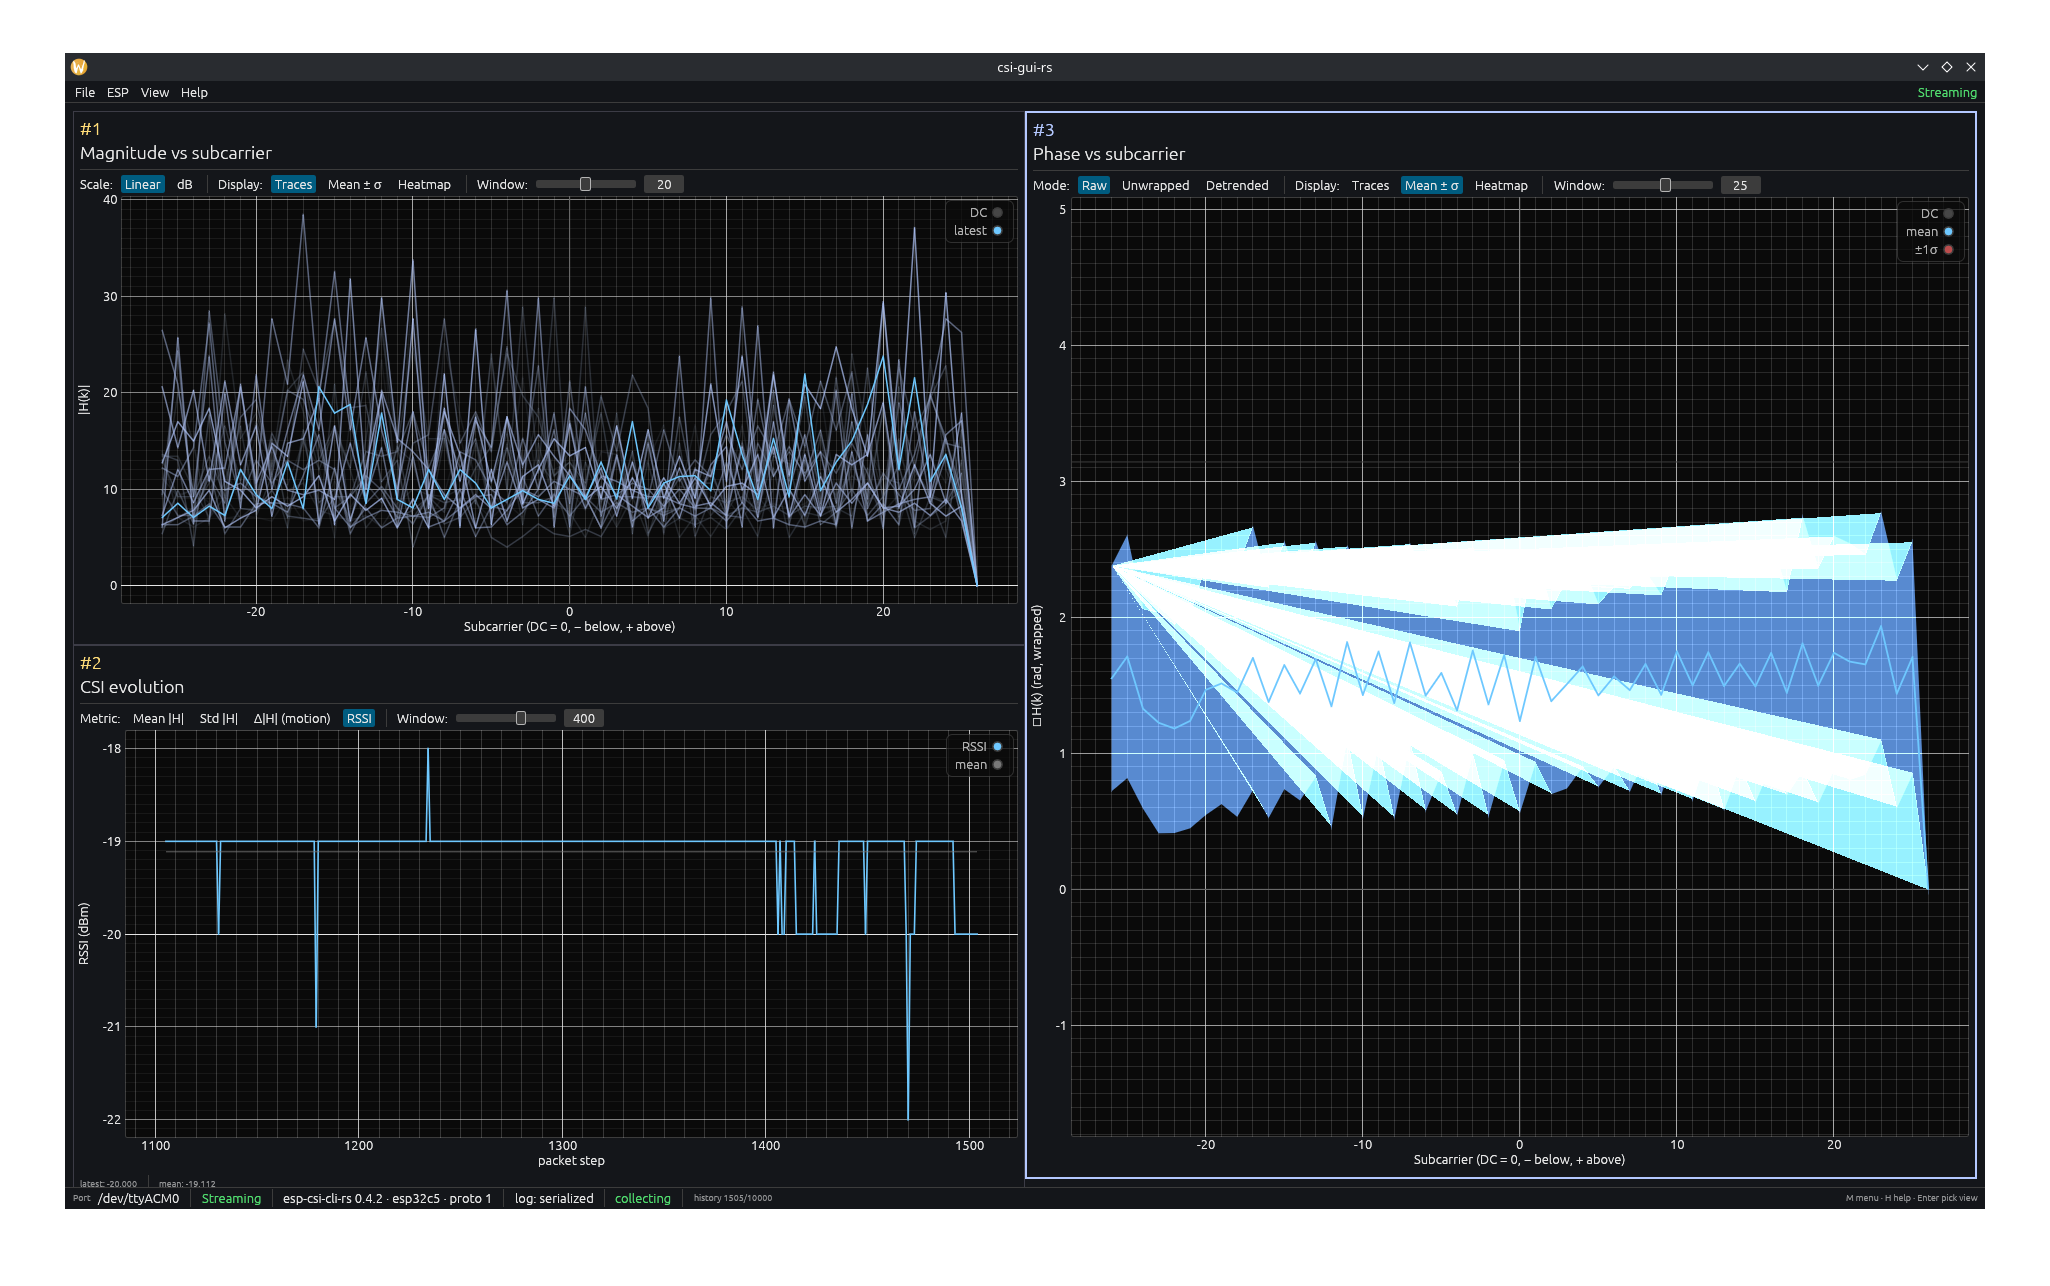
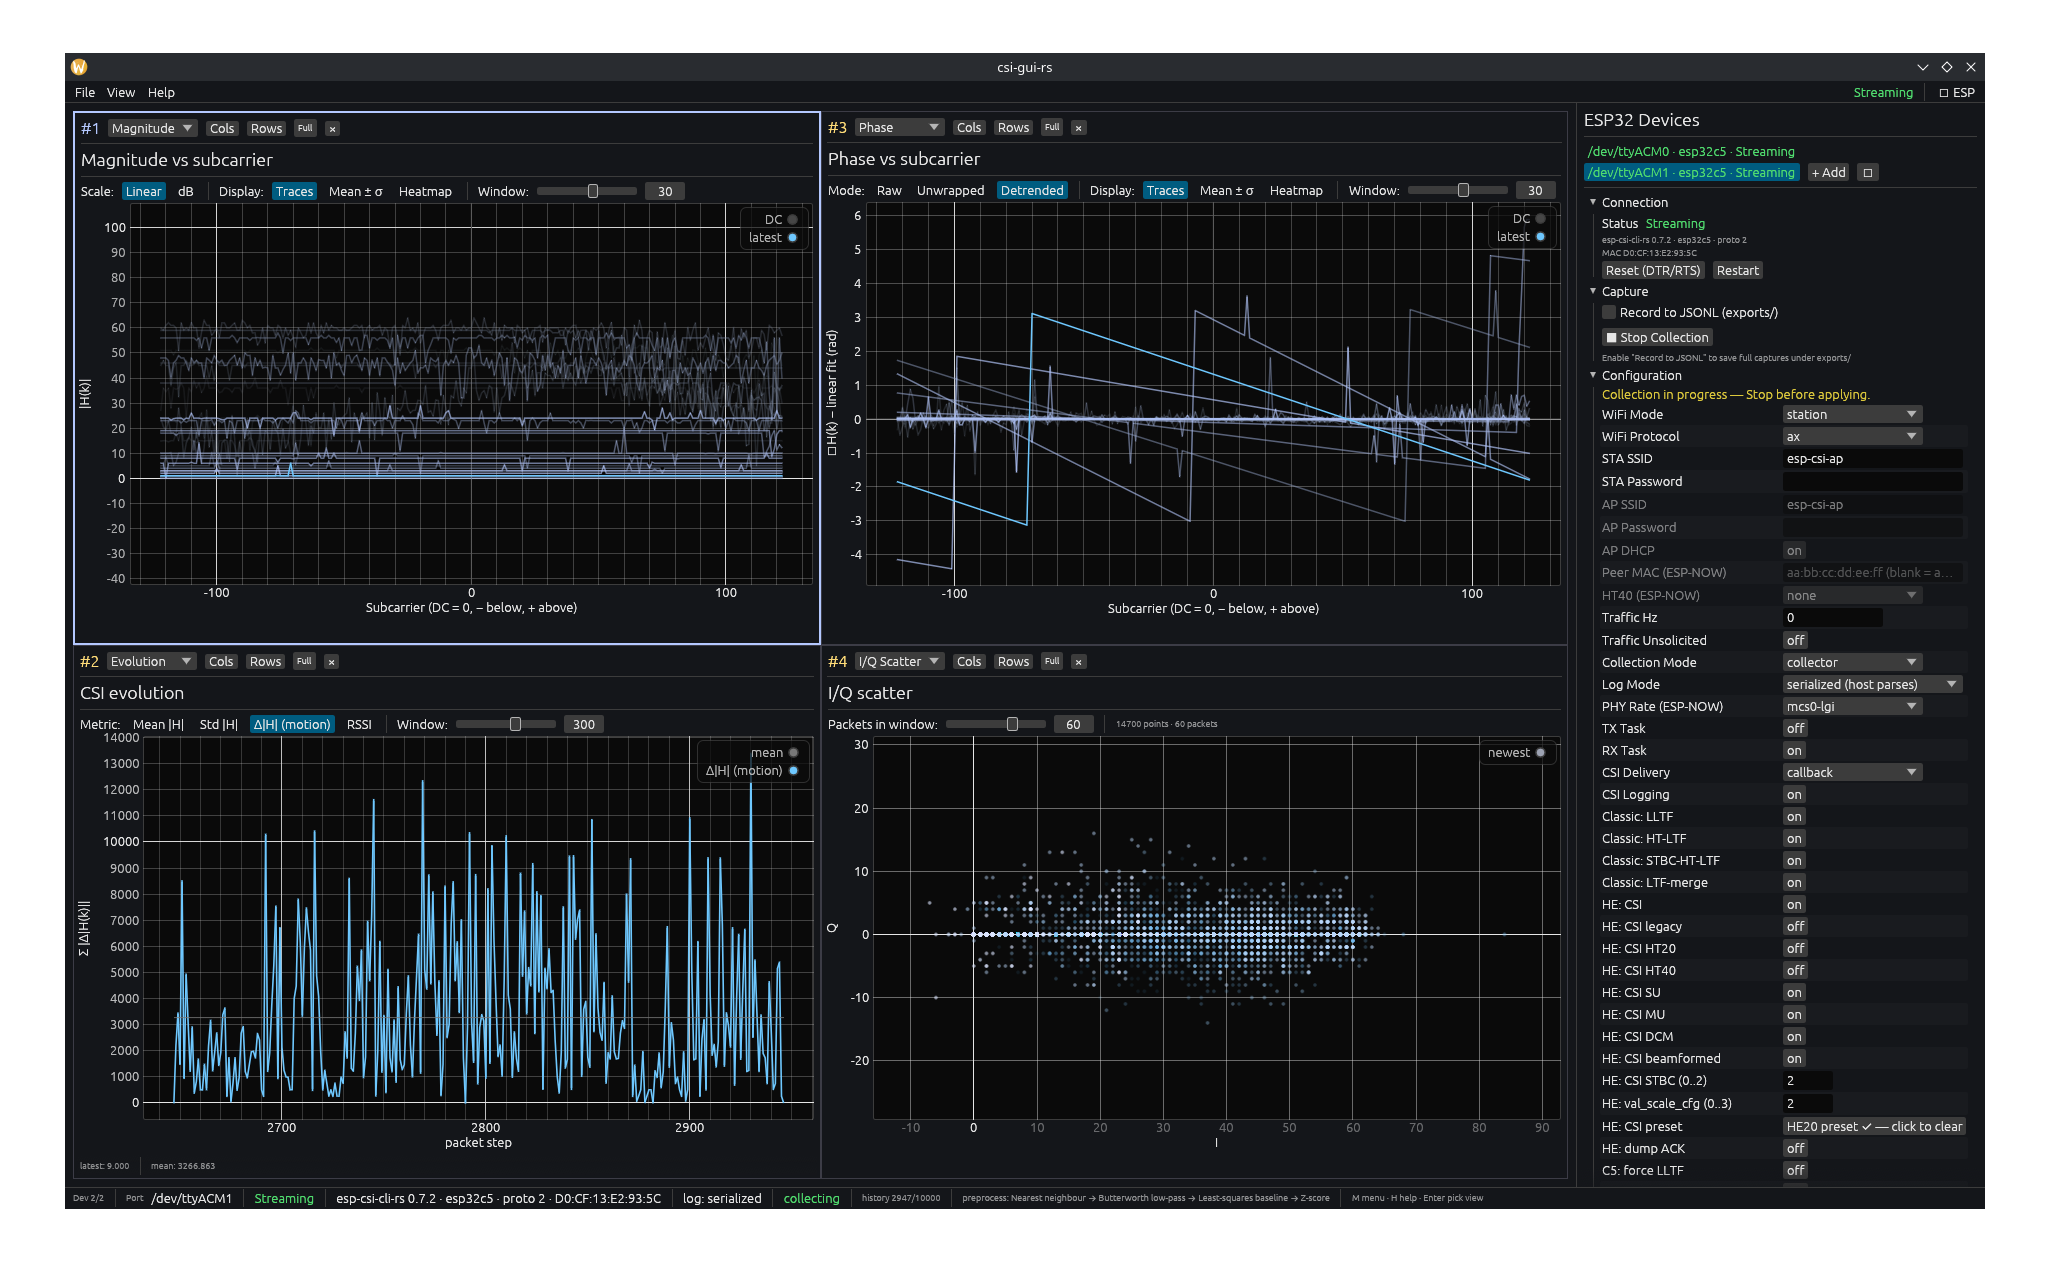
feat: Improved HE20 config with single action button, Updated README.md

diff --git a/src/ui/esp_panel.rs b/src/ui/esp_panel.rs
@@ -59,6 +59,9 @@ pub fn config_grid(
         .striped(true)
         .show(ui, |ui| {
             for (i, label) in ESP_CONFIG_FIELDS.iter().enumerate() {
+                if !field_visible(i, mode) {
+                    continue;
+                }
                 let enabled = field_enabled(i, mode);
                 ui.add_enabled_ui(enabled, |ui| {
                     ui.label(*label);
@@ -81,6 +84,18 @@ pub fn commit_and_validate(
     commit_channel(cfg, channel_buf);
     commit_numeric_fields(cfg, field_bufs);
     cfg.validate()
+}
+
+/// Whether the config row at `idx` is shown at all for the current
+/// [`WifiMode`]. The channel is assigned by the associated AP in Station
+/// mode, so its row is hidden there (and omitted from the pushed config).
+/// Indices must track `ESP_CONFIG_FIELDS`.
+fn field_visible(idx: usize, mode: WifiMode) -> bool {
+    match idx {
+        // Channel
+        2 => mode != WifiMode::Station,
+        _ => true,
+    }
 }
 
 /// Whether the config row at `idx` (index into `ESP_CONFIG_FIELDS`) applies
@@ -356,13 +371,23 @@ fn render_value(
             }
         }
         33 => {
-            enum_combo(
-                ui,
-                "csi_preset",
-                &mut cfg.csi_preset,
-                &CsiPreset::ALL.map(|m| (m, m.cli())),
-                shared,
-            );
+            // One-button HE20 layout: applies the full HE-LTF-only preset in a
+            // single click (mirrors csi-webserver-rs). Clicking while active
+            // reverts to the default preset, leaving the HE toggles editable.
+            let active = cfg.csi_preset == CsiPreset::He20;
+            let label = if active {
+                "HE20 preset ✓ — click to clear"
+            } else {
+                "Apply HE20 preset"
+            };
+            if ui.button(label).clicked() {
+                if active {
+                    cfg.csi_preset = CsiPreset::Default;
+                } else {
+                    cfg.apply_he20_preset();
+                }
+                shared.mark_config_dirty();
+            }
         }
         34 => toggle(ui, &mut cfg.csi_dump_ack, shared),
         35 => toggle(ui, &mut cfg.c5_csi_force_lltf, shared),

diff --git a/src/protocol/command.rs b/src/protocol/command.rs
@@ -41,7 +41,11 @@ pub enum EspCommand {
 pub fn render_apply_config(cfg: &EspConfig, chip: ChipFamily) -> Vec<String> {
     let mut out: Vec<String> = Vec::new();
     out.push(format!("set-wifi --mode={}", cfg.wifi_mode.cli()));
-    out.push(format!("set-wifi --set-channel={}", cfg.channel));
+    // In Station mode the channel follows the associated AP, so the firmware
+    // ignores an explicit channel — omit it (mirrors csi-webserver-rs).
+    if cfg.wifi_mode != WifiMode::Station {
+        out.push(format!("set-wifi --set-channel={}", cfg.channel));
+    }
     if !cfg.sta_ssid.is_empty() {
         out.push(format!(
             "set-wifi --sta-ssid={}",
@@ -219,6 +223,38 @@ mod tests {
         let lines = render_apply_config(&cfg, ChipFamily::Esp32);
         assert!(!lines.iter().any(|l| l.contains("--peer-mac")));
         assert!(!lines.iter().any(|l| l.contains("--ht40")));
+    }
+
+    #[test]
+    fn station_mode_omits_set_channel() {
+        let cfg = EspConfig {
+            wifi_mode: WifiMode::Station,
+            channel: 6,
+            ..Default::default()
+        };
+        let lines = render_apply_config(&cfg, ChipFamily::Esp32);
+        assert!(!lines.iter().any(|l| l.contains("--set-channel")));
+    }
+
+    #[test]
+    fn non_station_mode_emits_set_channel() {
+        let cfg = EspConfig {
+            wifi_mode: WifiMode::Sniffer,
+            channel: 6,
+            ..Default::default()
+        };
+        let lines = render_apply_config(&cfg, ChipFamily::Esp32);
+        assert!(lines.contains(&"set-wifi --set-channel=6".to_string()));
+    }
+
+    #[test]
+    fn he20_preset_collapses_to_single_flag() {
+        let mut cfg = EspConfig::default();
+        cfg.apply_he20_preset();
+        let lines = render_apply_config(&cfg, ChipFamily::Esp32C6);
+        assert!(lines.contains(&"set-csi --preset=he20".to_string()));
+        // The verbose per-flag `set-csi --csi=…` line must not also appear.
+        assert!(!lines.iter().any(|l| l.starts_with("set-csi --csi=")));
     }
 
     #[test]

diff --git a/src/protocol/config.rs b/src/protocol/config.rs
@@ -512,6 +512,29 @@ impl Default for EspConfig {
 }
 
 impl EspConfig {
+    /// Apply the firmware's HE20 (802.11ax HE-LTF-only) acquisition layout in
+    /// one shot, mirroring `esp_csi_rs::config::CsiConfig::he20()` and
+    /// csi-webserver-rs's `CsiConfigSection::he20_preset`: legacy / HT20 / HT40
+    /// off, SU / MU / DCM / beamformed on, STBC and val-scale at 2, ACK dump and
+    /// the C5-only L-LTF / VHT captures off. Also sets [`CsiPreset::He20`] so the
+    /// emitted `set-csi` collapses to `--preset=he20`.
+    pub fn apply_he20_preset(&mut self) {
+        self.csi_preset = CsiPreset::He20;
+        self.he_csi_en = true;
+        self.he_csi_legacy_en = false;
+        self.he_csi_ht20_en = false;
+        self.he_csi_ht40_en = false;
+        self.he_csi_su_en = true;
+        self.he_csi_mu_en = true;
+        self.he_csi_dcm_en = true;
+        self.he_csi_beamformed_en = true;
+        self.he_stbc = 2;
+        self.he_val_scale_cfg = 2;
+        self.csi_dump_ack = false;
+        self.c5_csi_force_lltf = false;
+        self.c5_csi_vht = false;
+    }
+
     /// Validate string-field lengths / formats before sending. SSIDs/passwords
     /// > 32 bytes would panic the device (`heapless::String::push_str().unwrap()`).
     pub fn validate(&self) -> Result<(), String> {

diff --git a/README.md b/README.md
@@ -33,6 +33,7 @@ It's the difference between *running an experiment* and *debugging your tooling*
 
 - **Auto-connect** to the first available serial port, with hardware DTR/RTS reset, banner identification, and graceful handling of hot-unplugs.
 - **Auto config sync** — on every connect the GUI's full `EspConfig` is pushed to the firmware, so the device's wire format (default `LogMode::Serialized`) matches what the host expects from the very first packet.
+- **Mode-aware device config panel** — the full `set-*` surface as typed dropdowns, toggles, and numeric fields. Rows that don't apply to the selected Wi-Fi mode are greyed out (STA/AP credentials, ESP-NOW peer MAC/HT40), and the channel field is hidden entirely in Station mode (the AP assigns it). A one-click **HE20 preset** button applies the full 802.11ax HE-LTF-only acquisition layout. See [Device configuration](#device-configuration).
 - **All firmware log modes decode**: `text`, `array-list`, `serialized` (COBS-framed postcard — both classic-chip and ESP32-C5/C6 schemas), and `esp-csi-tool` (Hernandez 26-column CSV).
 - **Live visualizations** (any of which can be split into multiple tiles side-by-side; every pane carries a large `#N` id badge for keyboard focus shortcuts 1..9 / 0):
   - **Dashboard** — PPS, SNR, RSSI, firmware status at a glance.
@@ -106,6 +107,45 @@ csi-gui-rs --rerun=spawn                 # launch a Rerun viewer
 csi-gui-rs --rerun=file:logs/run1.rrd    # record to an RRD file
 csi-gui-rs --help
 ```
+
+---
+
+## Device configuration
+
+The ESP panel's **Configuration** section is a typed front-end for the firmware's
+`set-*` command surface. Every field maps 1:1 to a command that
+[`esp-csi-cli-rs`](https://github.com/connectedmotion-io/esp-csi-cli-rs)
+understands; edits stay local until you press **Save & Apply**, which validates
+the whole config and pushes it to the device in one batch.
+
+**Mode-aware fields.** Selecting a **Wi-Fi Mode** reshapes the panel so you only
+see knobs that take effect:
+
+- **Station** — STA SSID / password are enabled; the **Channel** field is
+  *hidden*, because the channel follows the associated AP (the GUI omits
+  `set-wifi --set-channel` in this mode).
+- **Wi-Fi AP** — AP SSID / password / DHCP are enabled.
+- **ESP-NOW** (central / peripheral / fast-collector / fast-source) — Peer MAC
+  and HT40 secondary-channel are enabled.
+- **Sniffer** and the other modes grey out the credentials they don't use.
+
+**One-click HE20 preset.** On ESP32-C5/C6 firmware, the **Apply HE20 preset**
+button (in the *HE: CSI preset* row) lays out the entire HE-LTF-only
+acquisition profile in a single click — legacy / HT20 / HT40 captures off;
+SU / MU / DCM / beamformed on; STBC and value-scale at 2; ACK-dump and the
+C5-only L-LTF / VHT captures off. This mirrors `csi-webserver-rs`'s HE20 preset
+and collapses the pushed config to `set-csi --preset=he20`. Click it again
+(**HE20 preset ✓ — click to clear**) to drop back to the default preset, leaving
+the individual HE toggles editable.
+
+**Buttons.**
+
+- **Save & Apply** — validate + push the full config (SSID length, MAC format,
+  channel range, STBC/scale bounds). Disabled hints appear while a collection is
+  running; stop first.
+- **Reset to defaults** — send `reset-config` to restore the firmware defaults.
+- **Advanced** — fire raw `show-config`, `show-stats`, and `info` commands and
+  read the replies in the Console pane.
 
 ---
 
